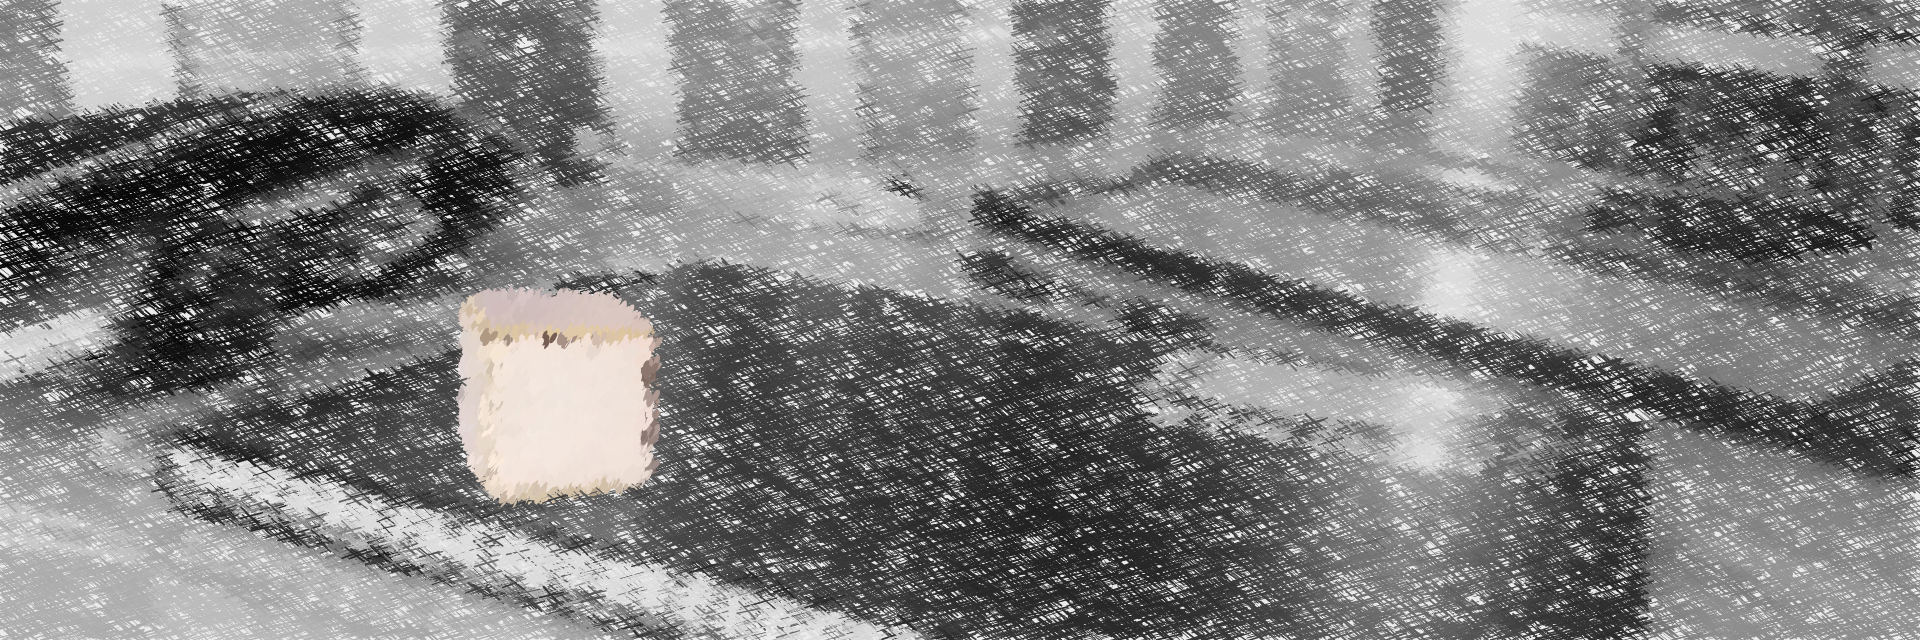
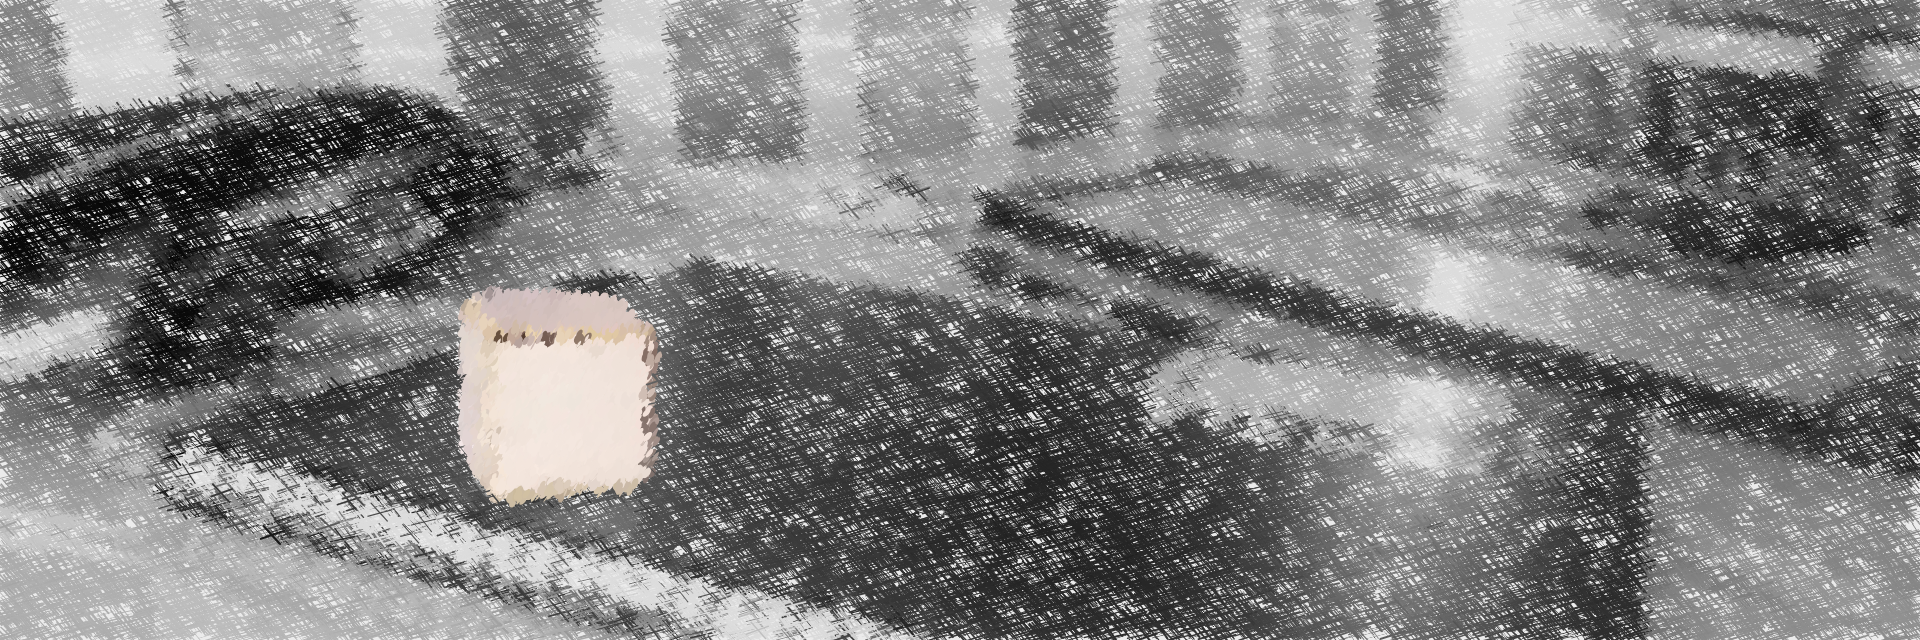
final

diff --git a/sketch.js b/sketch.js
@@ -70,7 +70,7 @@ function pencil (col, posx, posy, pixel) {
     rotate(random(-20, -12));
     line(-10 + random(0, -3), 0, 10 + random(0, 3), 0)
 
-    rotate(random(60, 52));
+    rotate(random(70, 62));
     line(-10 + random(0, -3), 0, 10 + random(0, 3), 0)
 
      pop();

diff --git a/README.md b/README.md
@@ -1,5 +1,17 @@
 ## Creative Coding 2: Custom Pixel
 
-Cross hatching
+Final
 
-Returned background to cross hatching effect. Lowered render cycle count back down to 10.
+Name: Focus
+
+Well, this is a bit of a trip. There's a few different things to cover here, so lets get to it.
+
+I really wasn't particularly inspired by this project. Typically I like to set myself some extra rules for a project in order to force myself in a very specific direction (like avoiding traditional ergonomic shapes in the joint project for DSDN 111 last year, or displaying numbers without using them, etc). This project doesn't really allow that very well. The ruleset of the project encourages you to be more additive than subtractive with your workflow, so I started this out stumped and went through a couple different concepts before I settled on one.
+
+The "Comfort Concept" commit is the first one. At that point I was just looking at places I find comfortable, and was going to progress from the real world into a digital one. The images were going to have soft, painterly backgrounds around some sort of window, which would look like it was raining. While this I think was pretty solid conceptually, execution on it proved rather annoying and was hard to make look right. In addition, it directly inspired where I went next, which was actually the opposite of it.
+
+The next place I went was the commit "Stress Concept". The one linked in the purview is actually my last shot at that. I saw the rainy window in my PC screen came out looking kinda glitchy and warped due to how bright it was, which I thought was a cool effect and I thought would portray stress well. This one was to have a similar layout, with a backdrop and an object that produced stress. The backdrop was meant to look out of focus, while the object had that glitchy stress effect and drew in your eyes, showing how stress can make it hard to really see where you are.
+
+This just didn't work out well and I spent a while lost before settling on what I actually ended up doing, which is about objects of interest and sentimentality. The idea was to look at how certain, seemingly random objects can be the most important thing in the room to someone. Pictures were taken in parts of my house I spend a lot of time in, each having one highlighted object of interest. In the final product, the background is supposed to look as though it was sketched with pencil or charcoal and then left unfinished, while the object appears to have been painted, making it much clearer. If it wasn't obvious, this is supposed to show how the object may be the only thing there perceived as important, despite the other things around them having more purpose (Most notably, in the background of the model car is my glasses, the blue controller is next to an otherwise identical black one, and the cube is sitting on top of a work book).
+
+To be honest, I can't say I'm totally happy with this project, but at this point I'm just really tired. This has definitely been my weakest work in this class this year, but I think it conveys it's message and is pretty nice to look at. If I were to do this again, I'm not really sure what I'd change. My biggest problem here was just finding inspiration, and I can't really just choose to be inspired differently on a second attempt. It is what it is, I guess.
